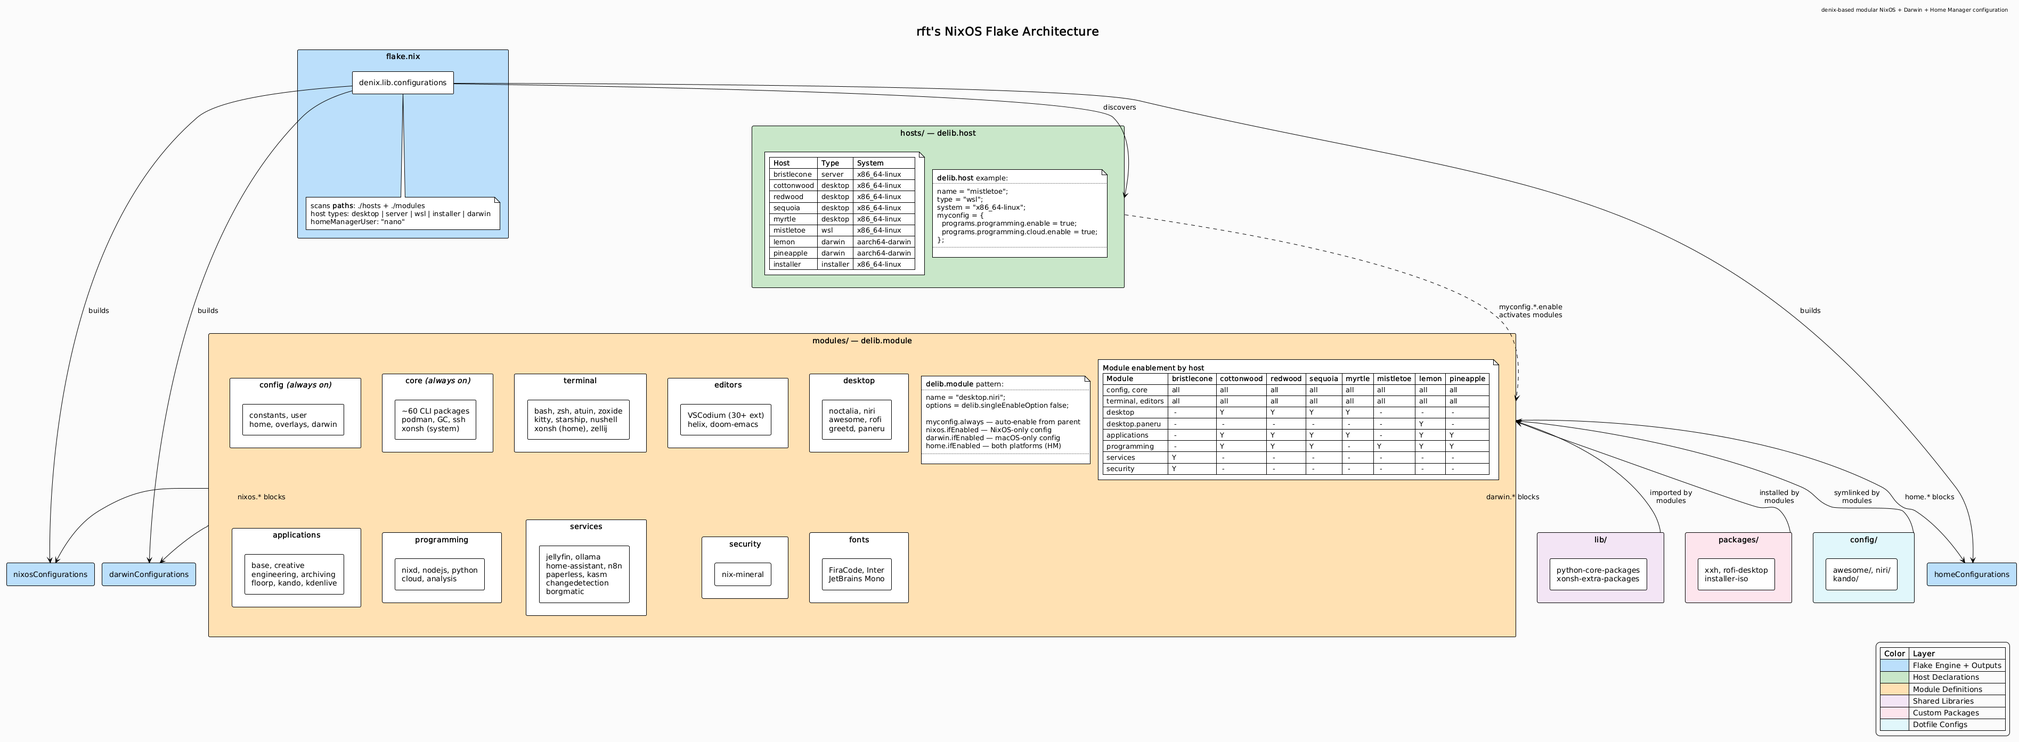
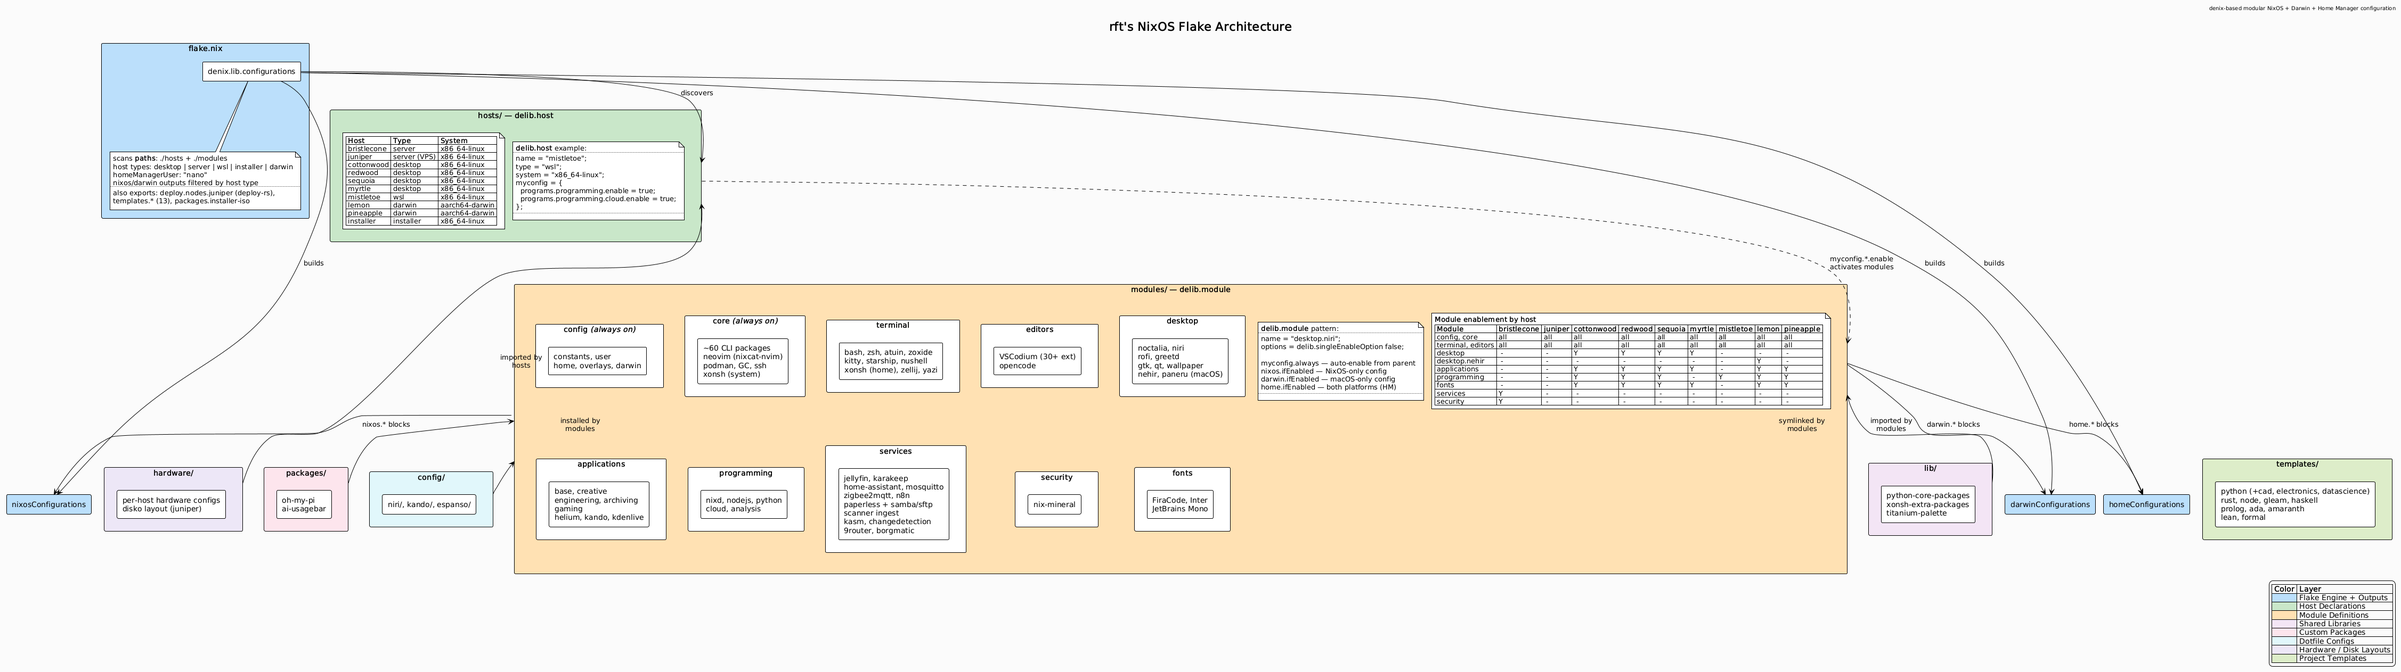
udpated docs and arch diagram

diff --git a/docs/MODULES.md b/docs/MODULES.md
@@ -106,7 +106,7 @@ Desktop environment modules. The top-level `desktop` module gates all sub-module
 - **Name:** `desktop.paneru`
 - **Enable option:** `myconfig.desktop.paneru.enable` (default: `false`)
 - **Description:** Installs and configures paneru, a sliding tiling window manager for macOS. Manages windows on an infinite horizontal strip — opening new windows never resizes existing ones. Configured via Home Manager with a launchd agent for automatic startup.
-- **Default behavior:** Does NOT auto-enable with `desktop`. Must be explicitly enabled per-host. Darwin only.
+- **Default behavior:** Does NOT auto-enable with `desktop`. Must be explicitly enabled per-host (currently enabled on none — lemon moved to `desktop.nehir`). Darwin only.
 - **Dependencies:** `paneru` flake input.
 - **Keybindings:**
 
@@ -116,10 +116,10 @@ Desktop environment modules. The top-level `desktop` module gates all sub-module
 | Focus east | `Cmd + L` |
 | Focus north | `Cmd + K` |
 | Focus south | `Cmd + J` |
-| Swap west | `Alt + H` |
-| Swap east | `Alt + L` |
-| Swap north | `Alt + K` |
-| Swap south | `Alt + J` |
+| Swap west | `Shift + Cmd + H` |
+| Swap east | `Shift + Cmd + L` |
+| Swap north | `Shift + Cmd + K` |
+| Swap south | `Shift + Cmd + J` |
 | Resize (grow) | `Alt + R` |
 | Shrink | `Alt + S` |
 | Full width | `Alt + F` |
@@ -128,6 +128,15 @@ Desktop environment modules. The top-level `desktop` module gates all sub-module
 | Stack | `Alt + ]` |
 | Unstack | `Alt + [` |
 | Quit | `Ctrl + Alt + Q` |
+
+### desktop.nehir
+
+- **Path:** `modules/desktop/nehir.nix`
+- **Name:** `desktop.nehir`
+- **Enable option:** `myconfig.desktop.nehir.enable` (default: `false`)
+- **Description:** Installs [Nehir](https://github.com/guria/nehir), a macOS scrolling tiling window manager built on Niri's column model, from the `guria/tap/nehir@rc` Homebrew cask (pinned to the release-candidate cask until 0.6.0 ships stable, to avoid windows being stranded off-screen after lid-open wake). Starts it at login via a launchd user agent.
+- **Default behavior:** Does NOT auto-enable with `desktop`. Must be explicitly enabled per-host (lemon). Darwin only.
+- **Dependencies:** Homebrew (`modules/config/darwin.nix`). lemon disables the macOS `⌥⌘Space` Finder-search shortcut so Nehir's command palette can use it.
 
 ### desktop.login
 
@@ -155,6 +164,33 @@ Desktop environment modules. The top-level `desktop` module gates all sub-module
 - **Description:** Configures Rofi launcher with a "titanium" theme generated from `lib/titanium-palette.nix`.
 - **Default behavior:** Auto-enables when `myconfig.desktop.enable` is true.
 - **Dependencies:** `desktop`.
+
+### desktop.gtk
+
+- **Path:** `modules/desktop/gtk.nix`
+- **Name:** `desktop.gtk`
+- **Enable option:** `myconfig.desktop.gtk.enable` (default: `false`)
+- **Description:** Dark GTK theming: adw-gtk3-dark theme, breeze-dark icons, and GTK3/GTK4 colour overrides generated from `lib/titanium-palette.nix` (libadwaita ignores themes, so the overrides carry GTK4). Sets the `breeze_cursors` pointer theme (size 24) so niri and Electron apps get resize/grab cursor shapes. Enables dconf on NixOS.
+- **Default behavior:** Auto-enables when `myconfig.desktop.enable` is true.
+- **Dependencies:** `desktop`.
+
+### desktop.qt
+
+- **Path:** `modules/desktop/qt.nix`
+- **Name:** `desktop.qt`
+- **Enable option:** `myconfig.desktop.qt.enable` (default: `false`)
+- **Description:** Themes Qt/KDE apps (e.g. Dolphin) outside Plasma using the KDE platform theme with the Breeze style, breeze-dark icons, and a "Titanium" `kdeglobals` colour scheme from `lib/titanium-palette.nix`.
+- **Default behavior:** Auto-enables when `myconfig.desktop.enable` is true.
+- **Dependencies:** `desktop`.
+
+### desktop.wallpaper
+
+- **Path:** `modules/desktop/wallpaper.nix`
+- **Name:** `desktop.wallpaper`
+- **Enable option:** `myconfig.desktop.wallpaper.enable` (default: `false`)
+- **Description:** Animated "Melancholic Forest" live wallpaper played by mpvpaper as a systemd user service (pauses while windows fully cover it). Disables Noctalia's own wallpaper and uses the video's first frame as the lock-screen image.
+- **Default behavior:** Auto-enables when `myconfig.desktop.enable` is true.
+- **Dependencies:** `desktop` (Noctalia settings).
 
 ---
 
@@ -282,7 +318,7 @@ Self-hosted services. Gated by `services.enable`.
 - **Path:** `modules/services/default.nix`
 - **Name:** `services`
 - **Enable option:** `myconfig.services.enable` (default: `false`)
-- **Description:** Self-hosted services for headless servers. Enables: Jellyfin (media server), Mosquitto (MQTT broker), Home Assistant (home automation), n8n (workflow automation), Paperless (document management), Kasm Workspaces (browser/desktop streaming), changedetection.io (website monitoring), Karakeep (bookmarks). Also sets up scanner ingest into Paperless (SFTP jail + Samba share) and installs borgmatic for backup configuration. See `docs/SERVICES.md` for the full reference.
+- **Description:** Self-hosted services for headless servers. Enables: Jellyfin (media server), Mosquitto (MQTT broker), Home Assistant (home automation), n8n (workflow automation), Paperless (document management), Kasm Workspaces (browser/desktop streaming), changedetection.io (website monitoring), Karakeep (bookmarks), Zigbee2MQTT (Zigbee → MQTT bridge), and 9router (shared AI gateway). Also sets up scanner ingest into Paperless (SFTP jail + Samba share) and installs borgmatic for backup configuration. See `docs/SERVICES.md` for the full reference.
 - **Default behavior:** Disabled by default. Enabled on bristlecone (server host).
 - **Services and ports:**
   - **Jellyfin** — media server (firewall auto-opened, port 8096)
@@ -294,7 +330,24 @@ Self-hosted services. Gated by `services.enable`.
   - **Kasm Workspaces** — browser/desktop streaming (port 8443 HTTPS, firewall opened manually)
   - **changedetection.io** — website change monitoring (port 5000, firewall opened manually)
   - **Karakeep** — bookmarks / read-it-later (port 3000, firewall opened manually; pulls in meilisearch on localhost:7700 and a headless chromium on localhost:9222)
+  - **Zigbee2MQTT** — Zigbee coordinator bridged into Mosquitto/Home Assistant (frontend on port 8080, firewall opened manually)
+  - **9router** — AI gateway shared by the other hosts (port 20128, reachable only on the Netbird interface `wt0`)
 - **Dependencies:** None.
+
+---
+
+## Security
+
+Opt-in system hardening.
+
+### security
+
+- **Path:** `modules/security/default.nix`
+- **Name:** `security`
+- **Enable option:** `myconfig.security.enable` (default: `false`)
+- **Description:** Enables [nix-mineral](https://github.com/cynicsketch/nix-mineral) with its default preset plus opt-in extras from the maximum preset (`lock-root`, `minimize-swapping`, `secure-chrony`, `bluetooth-kmodules`, `tcp-window-scaling`). DNSSEC is deliberately left off. Because nix-mineral mounts `/home` noexec, it punches a narrow exec bind mount for `~/.omp/natives` so oh-my-pi can load its native modules.
+- **Default behavior:** Disabled by default. Enabled on bristlecone. NixOS only.
+- **Dependencies:** `nix-mineral` flake input (imported on every NixOS host, active only when enabled).
 
 ---
 
@@ -376,9 +429,9 @@ Editor configurations. Enabled by default (`singleEnableOption true`).
 - **Path:** `modules/editors/default.nix`
 - **Name:** `editors`
 - **Enable option:** `myconfig.editors.enable` (default: `true`)
-- **Description:** Base editor module. Imports the nix-doom-emacs-unstraightened HM module. Doom Emacs is declared but currently disabled (`enable = false`).
+- **Description:** Parent toggle for the editor sub-modules (`editors.vscode`, `editors.opencode`). Has no configuration of its own. Neovim (nixcat-nvim) is installed by `core`, not here.
 - **Default behavior:** Enabled by default for all hosts.
-- **Dependencies:** `nix-doom-emacs-unstraightened` flake input.
+- **Dependencies:** None.
 
 ### editors.vscode
 

diff --git a/docs/SETUP.md b/docs/SETUP.md
@@ -16,17 +16,20 @@ hosts/                  Per-host configurations (delib.host)
 modules/                Shared modules (delib.module)
   config/               Infrastructure (constants, user, overlays)
   core/                 Always-on system packages and xonsh
-  desktop/              Desktop environment (noctalia, niri, rofi, login)
-  applications/         NixOS-level GUI apps (creative, engineering, archiving)
+  desktop/              Desktop environment (noctalia, niri, rofi, login, gtk, qt, wallpaper; nehir/paneru on macOS)
+  applications/         NixOS-level GUI apps (creative, engineering, archiving, gaming)
   applications-home/    Home Manager GUI app configs (helium, kando, kdenlive)
   programming/          Development tools (analysis, cloud)
   services/             Self-hosted services (see [SERVICES.md](SERVICES.md))
-  terminal/             Shell and terminal configs (kitty, starship, nushell, xonsh, zellij)
-  editors/              Editor configurations (vscode, doom-emacs)
+  security/             nix-mineral hardening
+  terminal/             Shell and terminal configs (kitty, starship, nushell, xonsh, zellij, yazi)
+  editors/              Editor configurations (vscode, opencode)
   fonts/                Font packages and fontconfig
-config/                 Static app configs (niri, kando)
-lib/                    Shared Nix functions (python-core-packages, xonsh-extra-packages)
-packages/               Custom packages (oh-my-pi)
+config/                 Static app configs (niri, kando, espanso)
+hardware/               Hardware configs for physical/VM hosts and disko layouts for remote servers
+lib/                    Shared Nix functions (python-core-packages, xonsh-extra-packages, titanium-palette)
+packages/               Custom packages (oh-my-pi, ai-usagebar)
+templates/              devenv project templates (see [TEMPLATES.md](TEMPLATES.md))
 docs/                   This documentation
 ```
 
@@ -38,15 +41,21 @@ extensions apply (host types: `desktop`, `server`, `wsl`, `installer`, `darwin`)
 
 | Host | Type | Timezone | Notable Config |
 |------|------|----------|----------------|
-| **bristlecone** | server | America/Phoenix | Headless server, SSH (key-only), Netbird VPN, self-hosted services (Jellyfin, Ollama, Home Assistant, n8n, Paperless), GRUB+EFI |
+| **bristlecone** | server | America/Phoenix | Headless server, SSH (key-only), Netbird VPN, self-hosted services (Jellyfin, Home Assistant + Zigbee2MQTT, n8n, Paperless, Kasm, changedetection.io, Karakeep, 9router — see [SERVICES.md](SERVICES.md)), nix-mineral hardening, GRUB+EFI |
 | **juniper** | server | America/Phoenix | Barebones VPS: core only, SSH (key-only, root prohibit-password), Netbird, disko disk layout, hybrid BIOS/UEFI GRUB, zram swap. Deployed remotely — see [VPS.md](VPS.md) |
 | **cottonwood** | desktop | America/Los_Angeles | Vertical screen rotation (`fbcon=rotate:1`), GRUB+EFI |
 | **redwood** | desktop | America/Los_Angeles | Full modules: creative + engineering explicitly enabled |
 | **sequoia** | desktop | America/Phoenix | VMware guest, GRUB on `/dev/sda` |
 | **myrtle** | desktop | America/Phoenix | VMware guest, archiving enabled, creative/engineering/programming disabled |
 | **mistletoe** | wsl | -- | WSL host, programming + analysis + cloud, nix-ld enabled |
-| **lemon** | darwin | -- | Apple Silicon Mac (aarch64-darwin), Touch ID sudo, paneru tiling WM. Homebrew casks: discord, spotify, obs, mpv, calibre, anki, audacity, blender, krita, reaper, tinycast, shortcat, linearmouse, orion, karabiner-elements, iina, plover, utm, espanso, obsidian, claude. App Store: Amphetamine, ProDrafts |
-| **pineapple** | darwin | -- | Apple Silicon Mac (aarch64-darwin), Touch ID sudo, Nix GC disabled. Homebrew casks: discord, spotify, obs, mpv, calibre, anki, audacity, blender, krita, reaper, tinycast, shortcat, linearmouse, orion, karabiner-elements, iina, plover, utm, espanso, obsidian, claude. App Store: Amphetamine, ProDrafts |
+| **lemon** | darwin | -- | Apple Silicon Mac (aarch64-darwin), Touch ID sudo, Nehir tiling WM, Karabiner Caps Lock → Esc/Ctrl. Shared Homebrew casks + topnotch, handy, cotabby |
+| **pineapple** | darwin | -- | Apple Silicon Mac (aarch64-darwin), Touch ID sudo, Nix GC disabled. Shared Homebrew casks + google-chrome |
+
+Both Darwin hosts get the shared Homebrew casks from `modules/config/darwin.nix`:
+discord, spotify, obs, mpv, calibre, anki, audacity, blender, krita, reaper,
+rustdesk, tinycast, shortcat, linearmouse, orion, karabiner-elements, iina,
+plover, utm, espanso, obsidian, claude, chatgpt, vorssaint. App Store:
+Amphetamine, ProDrafts.
 | **installer** | installer | -- | Live ISO, KDE Plasma 6 + Calamares, autologin as `nano`, flake embedded at `/etc/nixos-config` |
 
 ### Module enablement by host
@@ -58,14 +67,15 @@ extensions apply (host types: `desktop`, `server`, `wsl`, `installer`, `darwin`)
 | applications.creative | -- | -- | auto | yes | yes | no | -- | auto | auto | -- |
 | applications.engineering | -- | -- | auto | yes | yes | no | -- | auto | auto | -- |
 | applications.archiving | -- | -- | -- | -- | -- | yes | -- | -- | -- | -- |
-| desktop.paneru | -- | -- | -- | -- | -- | -- | -- | yes | -- | -- |
+| desktop.nehir | -- | -- | -- | -- | -- | -- | -- | yes | -- | -- |
 | programs.programming | -- | -- | yes | yes | yes | no | yes | yes | yes | -- |
 | programs.programming.analysis | -- | -- | auto | auto | auto | -- | yes | auto | auto | -- |
 | programs.programming.cloud | -- | -- | -- | -- | -- | -- | yes | yes | yes | -- |
 | services | yes | -- | -- | -- | -- | -- | -- | -- | -- | -- |
+| security | yes | -- | -- | -- | -- | -- | -- | -- | -- | -- |
 | terminal | yes | yes | yes | yes | yes | yes | yes | yes | yes | yes |
 | editors | yes | yes | yes | yes | yes | yes | yes | yes | yes | yes |
-| fonts | auto | auto | auto | auto | auto | auto | -- | yes | yes | yes |
+| fonts | -- | -- | auto | auto | auto | auto | -- | yes | yes | yes |
 
 `yes` = explicitly enabled, `auto` = auto-enabled by parent, `no` = explicitly disabled, `--` = not enabled.
 
@@ -680,6 +690,7 @@ denix.lib.configurations {
   paths = [ ./hosts ./modules ];
   extensions = with denix.lib.extensions; [
     args
+    (overlays.withConfig { defaultTargets = [ "nixos" "home" "darwin" ]; })
     (base.withConfig {
       args.enable = true;
       rices.enable = false;
@@ -691,7 +702,9 @@ denix.lib.configurations {
 
 This generates `nixosConfigurations`, `darwinConfigurations`, and
 `homeConfigurations` from the same host/module definitions. The `base` extension provides the host type
-system and `myconfig` option merging.
+system and `myconfig` option merging. `nixosConfigurations` and
+`darwinConfigurations` are filtered by each host's declared `type`, so a new
+host needs no change to `flake.nix`.
 
 ### Key inputs
 
@@ -711,7 +724,8 @@ below them follows `nixpkgs`, except `nixcats-nvim`, which deliberately follows
 | nixcats-nvim | Custom Neovim config (follows nixpkgs-unstable) |
 | nix-vscode-extensions | VSCode marketplace extensions |
 | nixos-wsl | NixOS on WSL support |
-| paneru | macOS tiling window manager |
+| paneru | macOS tiling window manager (module kept; lemon now uses Nehir via Homebrew) |
+| helium | Helium browser |
 | quickshell | Quickshell (available as input) |
 | nix-mineral | Opt-in system hardening |
 | disko | Declarative disk layouts (remote servers) |

diff --git a/readme.md b/readme.md
@@ -46,7 +46,8 @@ The same palette is applied across the desktop, terminal, editors, and browser.
 - [Keybindings](docs/KEYBINDINGS.md) -- shared editor shortcuts, editor-specific actions, and the complete configured Niri keymap
 - [Setup Guide](docs/SETUP.md) -- directory structure, rebuilding, adding hosts/modules
 - [Services Reference](docs/SERVICES.md) -- self-hosted services on bristlecone, ports, recovery procedures
-- [Templates](docs/TEMPLATES.md) -- devenv project templates for Python, Rust, Node, etc.
+- [Templates](docs/TEMPLATES.md) -- devenv project templates for Python, Rust, Node, Lean, TLA+/Alloy, etc.
+- [VPS Guide](docs/VPS.md) -- installing and deploying juniper with nixos-anywhere and deploy-rs
 
 ---
 
@@ -60,13 +61,14 @@ The same palette is applied across the desktop, terminal, editors, and browser.
 
 | Host | Type | Description |
 |------|------|-------------|
-| **bristlecone** | server | Self-hosted services (Jellyfin, Home Assistant, n8n, Paperless + scanner ingest, Kasm Workspaces, changedetection.io, Karakeep) with nix-mineral hardening |
+| **bristlecone** | server | Self-hosted services (Jellyfin, Home Assistant + Zigbee2MQTT, n8n, Paperless + scanner ingest, Kasm Workspaces, changedetection.io, Karakeep, 9router) with nix-mineral hardening |
+| **juniper** | server | Barebones VPS, installed with nixos-anywhere and updated with deploy-rs (see [VPS.md](docs/VPS.md)) |
 | **cottonwood** | desktop | Vertical screen rotation |
 | **redwood** | desktop | Full creative + engineering modules |
 | **sequoia** | desktop | VMware guest |
 | **myrtle** | desktop | VMware guest, archiving-focused |
 | **mistletoe** | wsl | Programming + analysis + cloud |
-| **lemon** | darwin | Apple Silicon Mac with Homebrew casks |
+| **lemon** | darwin | Apple Silicon Mac with Homebrew casks and the Nehir tiling WM |
 | **pineapple** | darwin | Apple Silicon Mac with Homebrew casks |
 | **installer** | installer | Live ISO with KDE Plasma 6 + Calamares |
 
@@ -88,10 +90,23 @@ For example:
 sudo nixos-rebuild switch --flake .#mistletoe
 ```
 
-Standalone Home Manager (user-level config only):
+Apply a Darwin host (after the one-time nix-darwin bootstrap in
+[SETUP.md](docs/SETUP.md#darwin-macos)):
 
 ```bash
-home-manager switch --flake .#nano
+darwin-rebuild switch --flake .#lemon
+```
+
+Deploy the juniper VPS remotely (see [VPS.md](docs/VPS.md)):
+
+```bash
+nix run nixpkgs#deploy-rs -- .#juniper
+```
+
+Standalone Home Manager (user-level config only), keyed by `user@host`:
+
+```bash
+home-manager switch --flake .#nano@HOSTNAME
 ```
 
 ---
@@ -105,14 +120,15 @@ for the full reference.
 | Category | Path | Description |
 |----------|------|-------------|
 | **Config** | `modules/config/` | Infrastructure: constants, user account, overlays (always active) |
-| **Core** | `modules/core/` | 60+ system packages, Podman, xonsh shell (always active) |
-| **Desktop** | `modules/desktop/` | Noctalia shell, Niri compositor, Rofi, greetd login |
-| **Applications** | `modules/applications/` | GUI apps: base, creative, engineering, archiving |
+| **Core** | `modules/core/` | 60+ system packages, Neovim (nixcat-nvim), Podman, SSH, xonsh shell (always active) |
+| **Desktop** | `modules/desktop/` | Noctalia shell, Niri compositor, Rofi, greetd login, GTK/Qt theming, animated wallpaper; Nehir/Paneru on macOS |
+| **Applications** | `modules/applications/` | GUI apps: base, creative, engineering, archiving, gaming |
 | **Applications (HM)** | `modules/applications-home/` | Helium browser, Kando, KDEnlive configs |
 | **Programming** | `modules/programming/` | Dev tools, Python, Node.js, analysis, cloud |
-| **Services** | `modules/services/` | Self-hosted: borgmatic, jellyfin, home-assistant, n8n, paperless (+ samba/sftp scanner ingest), kasm, changedetection.io, karakeep |
-| **Terminal** | `modules/terminal/` | Shells (zsh, nushell, xonsh), Kitty, Starship, Zellij |
-| **Editors** | `modules/editors/` | VSCodium, Doom Emacs |
+| **Services** | `modules/services/` | Self-hosted: jellyfin, home-assistant, mosquitto, zigbee2mqtt, n8n, paperless (+ samba/sftp scanner ingest), kasm, changedetection.io, karakeep, 9router, borgmatic |
+| **Security** | `modules/security/` | nix-mineral hardening (bristlecone) |
+| **Terminal** | `modules/terminal/` | Shells (zsh, nushell, xonsh), Kitty, Starship, Zellij, Yazi |
+| **Editors** | `modules/editors/` | VSCodium (VSpaceCode), OpenCode |
 | **Fonts** | `modules/fonts/` | Nerd Fonts, Inter, fontconfig defaults |
 
 ---
@@ -127,7 +143,8 @@ nix flake init -t github:rft/nix-config#python
 ```
 
 Available: `python`, `python-cad`, `python-electronics`, `python-datascience`,
-`rust`, `node`, `gleam`, `haskell`, `prolog`, `ada`, `amaranth`.
+`rust`, `node`, `gleam`, `haskell`, `prolog`, `ada`, `amaranth`, `lean`,
+`formal`.
 
 ---
 

diff --git a/AGENTS.md b/AGENTS.md
@@ -6,13 +6,13 @@ Guidelines for AI agents working in this nix-config repository.
 
 - **`flake.nix`** — Flake definition with 15 inputs (nixpkgs 26.05, home-manager, denix, nix-darwin, nixos-wsl, disko, deploy-rs, etc.)
 - **`hosts/`** — 10 host configs using `delib.host` (NixOS desktops: cottonwood, redwood, sequoia, myrtle; NixOS servers: bristlecone, juniper (VPS); WSL: mistletoe; Darwin: lemon, pineapple; installer)
-- **`modules/`** — Shared modules using `delib.module` with `singleEnableOption` pattern, organized by category (config, core, desktop, applications, programming, terminal, editors, fonts, services)
-- **`config/`** — Static app config files (niri, kando)
-- **`lib/`** — Shared Nix utilities (python-core-packages.nix, xonsh-extra-packages.nix)
-- **`packages/`** — Custom packages (oh-my-pi)
+- **`modules/`** — Shared modules using `delib.module` with `singleEnableOption` pattern, organized by category (config, core, desktop, applications, applications-home, programming, terminal, editors, fonts, services, security)
+- **`config/`** — Static app config files (niri, kando, espanso)
+- **`lib/`** — Shared Nix utilities (python-core-packages.nix, xonsh-extra-packages.nix, titanium-palette.nix)
+- **`packages/`** — Custom packages (oh-my-pi, ai-usagebar)
 - **`hardware/`** — Hardware-specific configs for desktop hosts and disko disk layouts for remote servers
-- **`templates/`** — 11 devenv project templates
-- **`docs/`** — Documentation (MODULES.md, SETUP.md, TEMPLATES.md, VPS.md, architecture diagrams)
+- **`templates/`** — 13 devenv project templates (registered in `flake.nix` and listed in docs/TEMPLATES.md and readme.md)
+- **`docs/`** — Documentation (MODULES.md, SETUP.md, SERVICES.md, KEYBINDINGS.md, TEMPLATES.md, VPS.md, architecture diagram `architecture.puml` → `nix-config-architecture.png`)
 
 ## Verify the target first
 
@@ -134,7 +134,7 @@ delib.host {
 - This repo targets NixOS (x86_64-linux), Darwin (aarch64-darwin), and WSL.
 - When editing a module, check whether it uses `nixos.*`, `darwin.*`, or both — ensure changes work on all applicable platforms.
 - Darwin uses Homebrew casks for GUI apps (configured in `modules/config/darwin.nix`). NixOS installs GUI apps via `environment.systemPackages`.
-- macOS hosts use `paneru` for tiling; NixOS desktops use `niri` (Wayland).
+- lemon uses Nehir (Homebrew cask, `desktop.nehir`) for tiling; the `desktop.paneru` module remains but is unused. NixOS desktops use `niri` (Wayland).
 
 ## Naming conventions
 

diff --git a/docs/SERVICES.md b/docs/SERVICES.md
@@ -18,6 +18,7 @@ Enabled via `myconfig.services.enable = true` in the host config.
 | Karakeep             | 3000  | HTTP     | 0.0.0.0      |
 | Mosquitto (MQTT)     | 1883  | MQTT     | 0.0.0.0      |
 | Zigbee2MQTT frontend | 8080  | HTTP     | 0.0.0.0      |
+| 9router (AI gateway) | 20128 | HTTP     | 0.0.0.0 (firewall: `wt0` only) |
 | Meilisearch          | 7700  | HTTP     | 127.0.0.1    |
 | Karakeep browser CDP | 9222  | HTTP     | 127.0.0.1    |
 | Samba (scanner)      | 445   | SMB      | 0.0.0.0      |
@@ -396,6 +397,23 @@ systemd.services.zigbee2mqtt.serviceConfig.DeviceAllow = [ "/dev/ttyUSB0" ];
   `lib.mkMerge` value, so the merged attrset carries `_type = "merge"` and the module
   system keeps only `contents`, silently dropping the variable. `CacheDirectory` does
   come from upstream and is no longer set here.
+- **AI tagging:** Inference goes through the local 9router gateway
+  (`OPENAI_BASE_URL = http://127.0.0.1:20128/v1`). It only switches on once
+  `OPENAI_API_KEY` (a 9router API key) is appended to `/var/lib/karakeep/settings.env`.
+
+### 9router
+
+- **What:** Shared AI gateway, so provider logins, OAuth refresh, and quota tracking
+  live in one place. Agents on the other hosts point their Anthropic/OpenAI base URLs
+  at it over Netbird.
+- **Port:** 20128, opened only on the Netbird interface (`wt0`). The dashboard login
+  defaults to `123456` and `/v1` needs no API key until one is required in the
+  dashboard, so keep it off the LAN.
+- **Data:** `/var/lib/9router` (`DynamicUser`, mode `0700`)
+- **Unit:** `9router` runs the bundled Next.js server (`custom-server.js`) directly
+  rather than the interactive `9router` CLI, which detaches and npm-installs deps
+  into `$HOME` at startup.
+- **Hardening:** Shared baseline plus `ProtectSystem = strict`.
 
 ---
 
